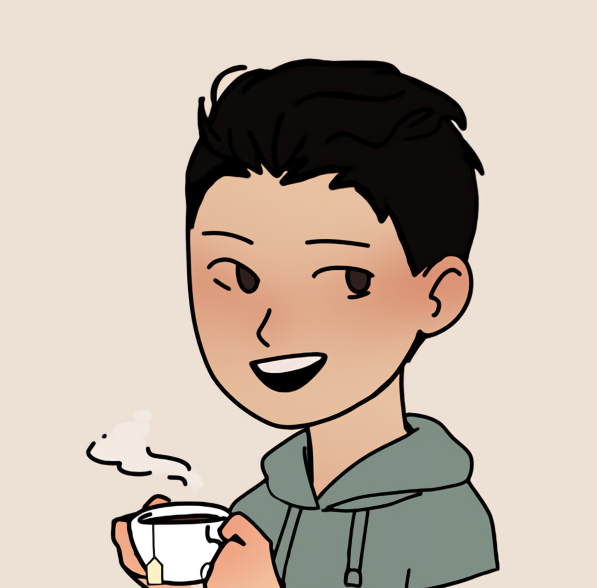
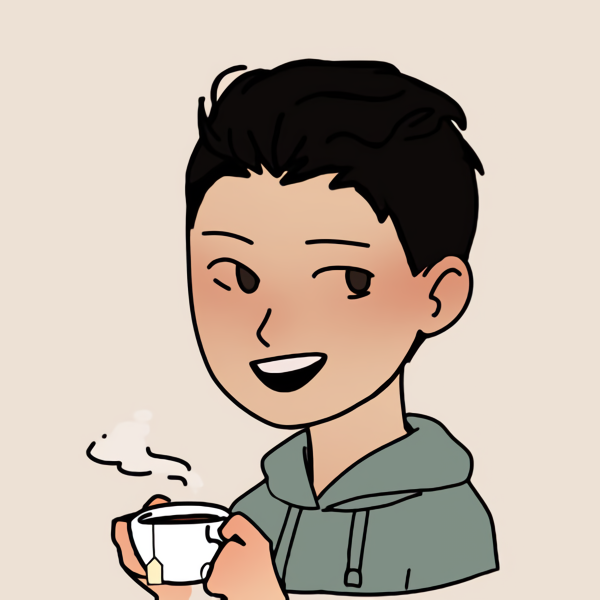
Added egg shell light mode

diff --git a/components/Footer.tsx b/components/Footer.tsx
@@ -4,21 +4,26 @@ import { BsFillSuitHeartFill, BsLinkedin, BsGithub, BsTwitter, BsInstagram } fro
 
 const Footer = () => {
   return (
-    <footer className="p-4 bg-white rounded-lg shadow md:px-6 md:py-6 dark:bg-zinc-900">
+    <footer className="p-4 bg-egg-100 rounded-lg shadow md:px-6 md:py-6 dark:bg-zinc-900">
       <div className="flex justify-center items-center w-full">
-        <ul className="flex flex-row justify-center items-center mx-auto mb-6 text-xl text-gray-500 sm:mb-0 dark:text-gray-400">
+        <ul className="flex flex-row justify-center items-center mx-auto mb-6 text-xl text-egg-900 sm:mb-0 dark:text-gray-400">
           <li className="mx-3 flex flex-grow-0 items-center justify-center">
             <a
               href="https://www.linkedin.com/in/benjaminjyeung/"
               target="_blank"
               rel="noreferrer"
-              className="hover:text-black dark:hover:text-white"
+              className="hover:text-egg-200 dark:hover:text-white"
             >
               <BsLinkedin />
             </a>
           </li>
           <li className="mx-3 flex flex-grow-0 items-center justify-center">
-            <a href="https://github.com/ben-yeung" target="_blank" rel="noreferrer" className="hover:text-black dark:hover:text-white">
+            <a
+              href="https://github.com/ben-yeung"
+              target="_blank"
+              rel="noreferrer"
+              className="hover:text-egg-200 dark:hover:text-white"
+            >
               <BsGithub />
             </a>
           </li>
@@ -27,7 +32,7 @@ const Footer = () => {
               href="https://twitter.com/hypeboosted"
               target="_blank"
               rel="noreferrer"
-              className="hover:text-black dark:hover:text-white"
+              className="hover:text-egg-200 dark:hover:text-white"
             >
               <BsTwitter />
             </a>
@@ -40,8 +45,8 @@ const Footer = () => {
       <div className="flex justify-center items-center w-full sm:hidden ">
         <SpotifyWidget />
       </div>
-      <hr className="my-3 border-gray-200 sm:mx-auto dark:border-gray-500 lg:my-6" />
-      <span className="flex mx-auto items-center justify-center text-sm text-gray-500 sm:text-center dark:text-gray-400">
+      <hr className="my-3 border-egg-200 sm:mx-auto  lg:my-6" />
+      <span className="flex mx-auto items-center justify-center text-sm text-egg-900 sm:text-center dark:text-gray-400">
         © {new Date().getFullYear()} Made with <BsFillSuitHeartFill className="mx-2 text-rose-600" /> by Ben Yeung . All Rights
         Reserved.
       </span>

diff --git a/components/NavBar.tsx b/components/NavBar.tsx
@@ -26,7 +26,7 @@ const NavBar = () => {
   return (
     <AnimatePresence>
       <motion.nav
-        className="fixed top-0 z-50 bg-white dark:bg-zinc-900 p-4 flex justify-between min-w-full shadow-lg "
+        className="fixed top-0 z-50 bg-egg-100 dark:bg-zinc-900 p-4 flex justify-between min-w-full shadow-lg "
         initial={{ y: -100, opacity: 0 }}
         animate={{ y: 0, opacity: 1 }}
         transition={{ duration: 1, delay: 0.5 }}
@@ -60,13 +60,12 @@ const NavBar = () => {
                 animate={{ x: isOpen ? 0 : "100%" }}
                 exit={{ x: "100%" }}
               >
-                <ul className="w-full">
+                <ul className="w-full ">
                   <li>
                     <button
                       className="menuItem"
                       onClick={() => {
-                        let home = document.getElementById("hero");
-                        home && home.scrollIntoView({ behavior: "smooth", block: "start" });
+                        window.scroll({ top: 0, behavior: "smooth" });
                         toggleMenu();
                       }}
                     >
@@ -110,9 +109,9 @@ const NavBar = () => {
                     </button>
                   </li>
                   <li>
-                    <button className="menuItem">
+                    <div className="menuItem">
                       <ModeSwitch />
-                    </button>
+                    </div>
                   </li>
                 </ul>
               </motion.div>
@@ -125,8 +124,7 @@ const NavBar = () => {
             <button
               className="navbutton"
               onClick={() => {
-                let home = document.getElementById("hero");
-                home && home.scrollIntoView({ behavior: "smooth", block: "start" });
+                window.scroll({ top: 0, behavior: "smooth" });
               }}
             >
               Home

diff --git a/styles/globals.css b/styles/globals.css
@@ -7,12 +7,12 @@
 }
 
 .light {
-  @apply bg-white text-zinc-800;
+  @apply bg-egg-100 text-zinc-800;
 }
 
 .switcher {
-  @apply bg-gray-200 text-gray-700 dark:bg-zinc-800 dark:text-white;
-  @apply hover:drop-shadow-lg hover:bg-gray-300 dark:hover:bg-zinc-700;
+  @apply bg-egg-900 text-egg-100 dark:bg-zinc-800 dark:text-white;
+  @apply hover:drop-shadow-lg hover:bg-egg-200 dark:hover:bg-zinc-700;
 }
 
 .navbutton {
@@ -29,7 +29,7 @@
 }
 
 .hamburgerMenu {
-  @apply absolute w-2/3 min-h-screen m-0 top-0 right-0 bg-white text-zinc-800 dark:bg-zinc-900 dark:text-white;
+  @apply absolute w-2/3 min-h-screen m-0 top-0 right-0 bg-egg-100 text-zinc-800 dark:bg-zinc-800 dark:text-white;
   @apply flex flex-col justify-evenly items-center;
 }
 

diff --git a/pages/index.tsx b/pages/index.tsx
@@ -146,7 +146,7 @@ export default function Home() {
                 a degree in CS.
               </p>
               <p className="mt-4 max-w-3xl">I love building mechanical keyboards and smaller form factor PCs whenever I can.</p>
-              <p>(a dangerous combo for the wallet).</p>
+              <p>(a dangerous combo for the wallet)</p>
               <p className="mt-4 text-lg md:text-1xl lg:text-2xl font-light">[Daily Driver: White/Chroma QK65 + Gateron Oil Kings]</p>
               <h1 className="text-2xl mt-10">Current Stack</h1>
               <div className="flex flex-col xl:flex-row items-center justify-center mt-5 text-4xl">

diff --git a/components/SpotifyWidget.tsx b/components/SpotifyWidget.tsx
@@ -12,7 +12,7 @@ const SpotifyWidget = () => {
       target="_blank"
       rel="noreferrer"
     >
-      <div className="inline-block items-center justify-center m-auto shadow-lg p-2 bg-gray-600 text-white dark:bg-zinc-800 dark:text-white rounded-lg">
+      <div className="inline-block items-center justify-center m-auto shadow-lg p-2 bg-egg-900 text-white dark:bg-zinc-800 dark:text-white rounded-lg">
         <div className="justify-center items-center">
           {data?.isPlaying ? (
             <div className="flex flex-row items-center px-1 text-xl">

diff --git a/tailwind.config.js b/tailwind.config.js
@@ -27,6 +27,7 @@ module.exports = {
       rose: colors.rose,
       zinc: colors.zinc,
       boki: "#efd2ff",
+      egg: { 100: "#f5ebe1", 200: "#a69585", 900: "#877564" },
     },
     extend: {},
   },
